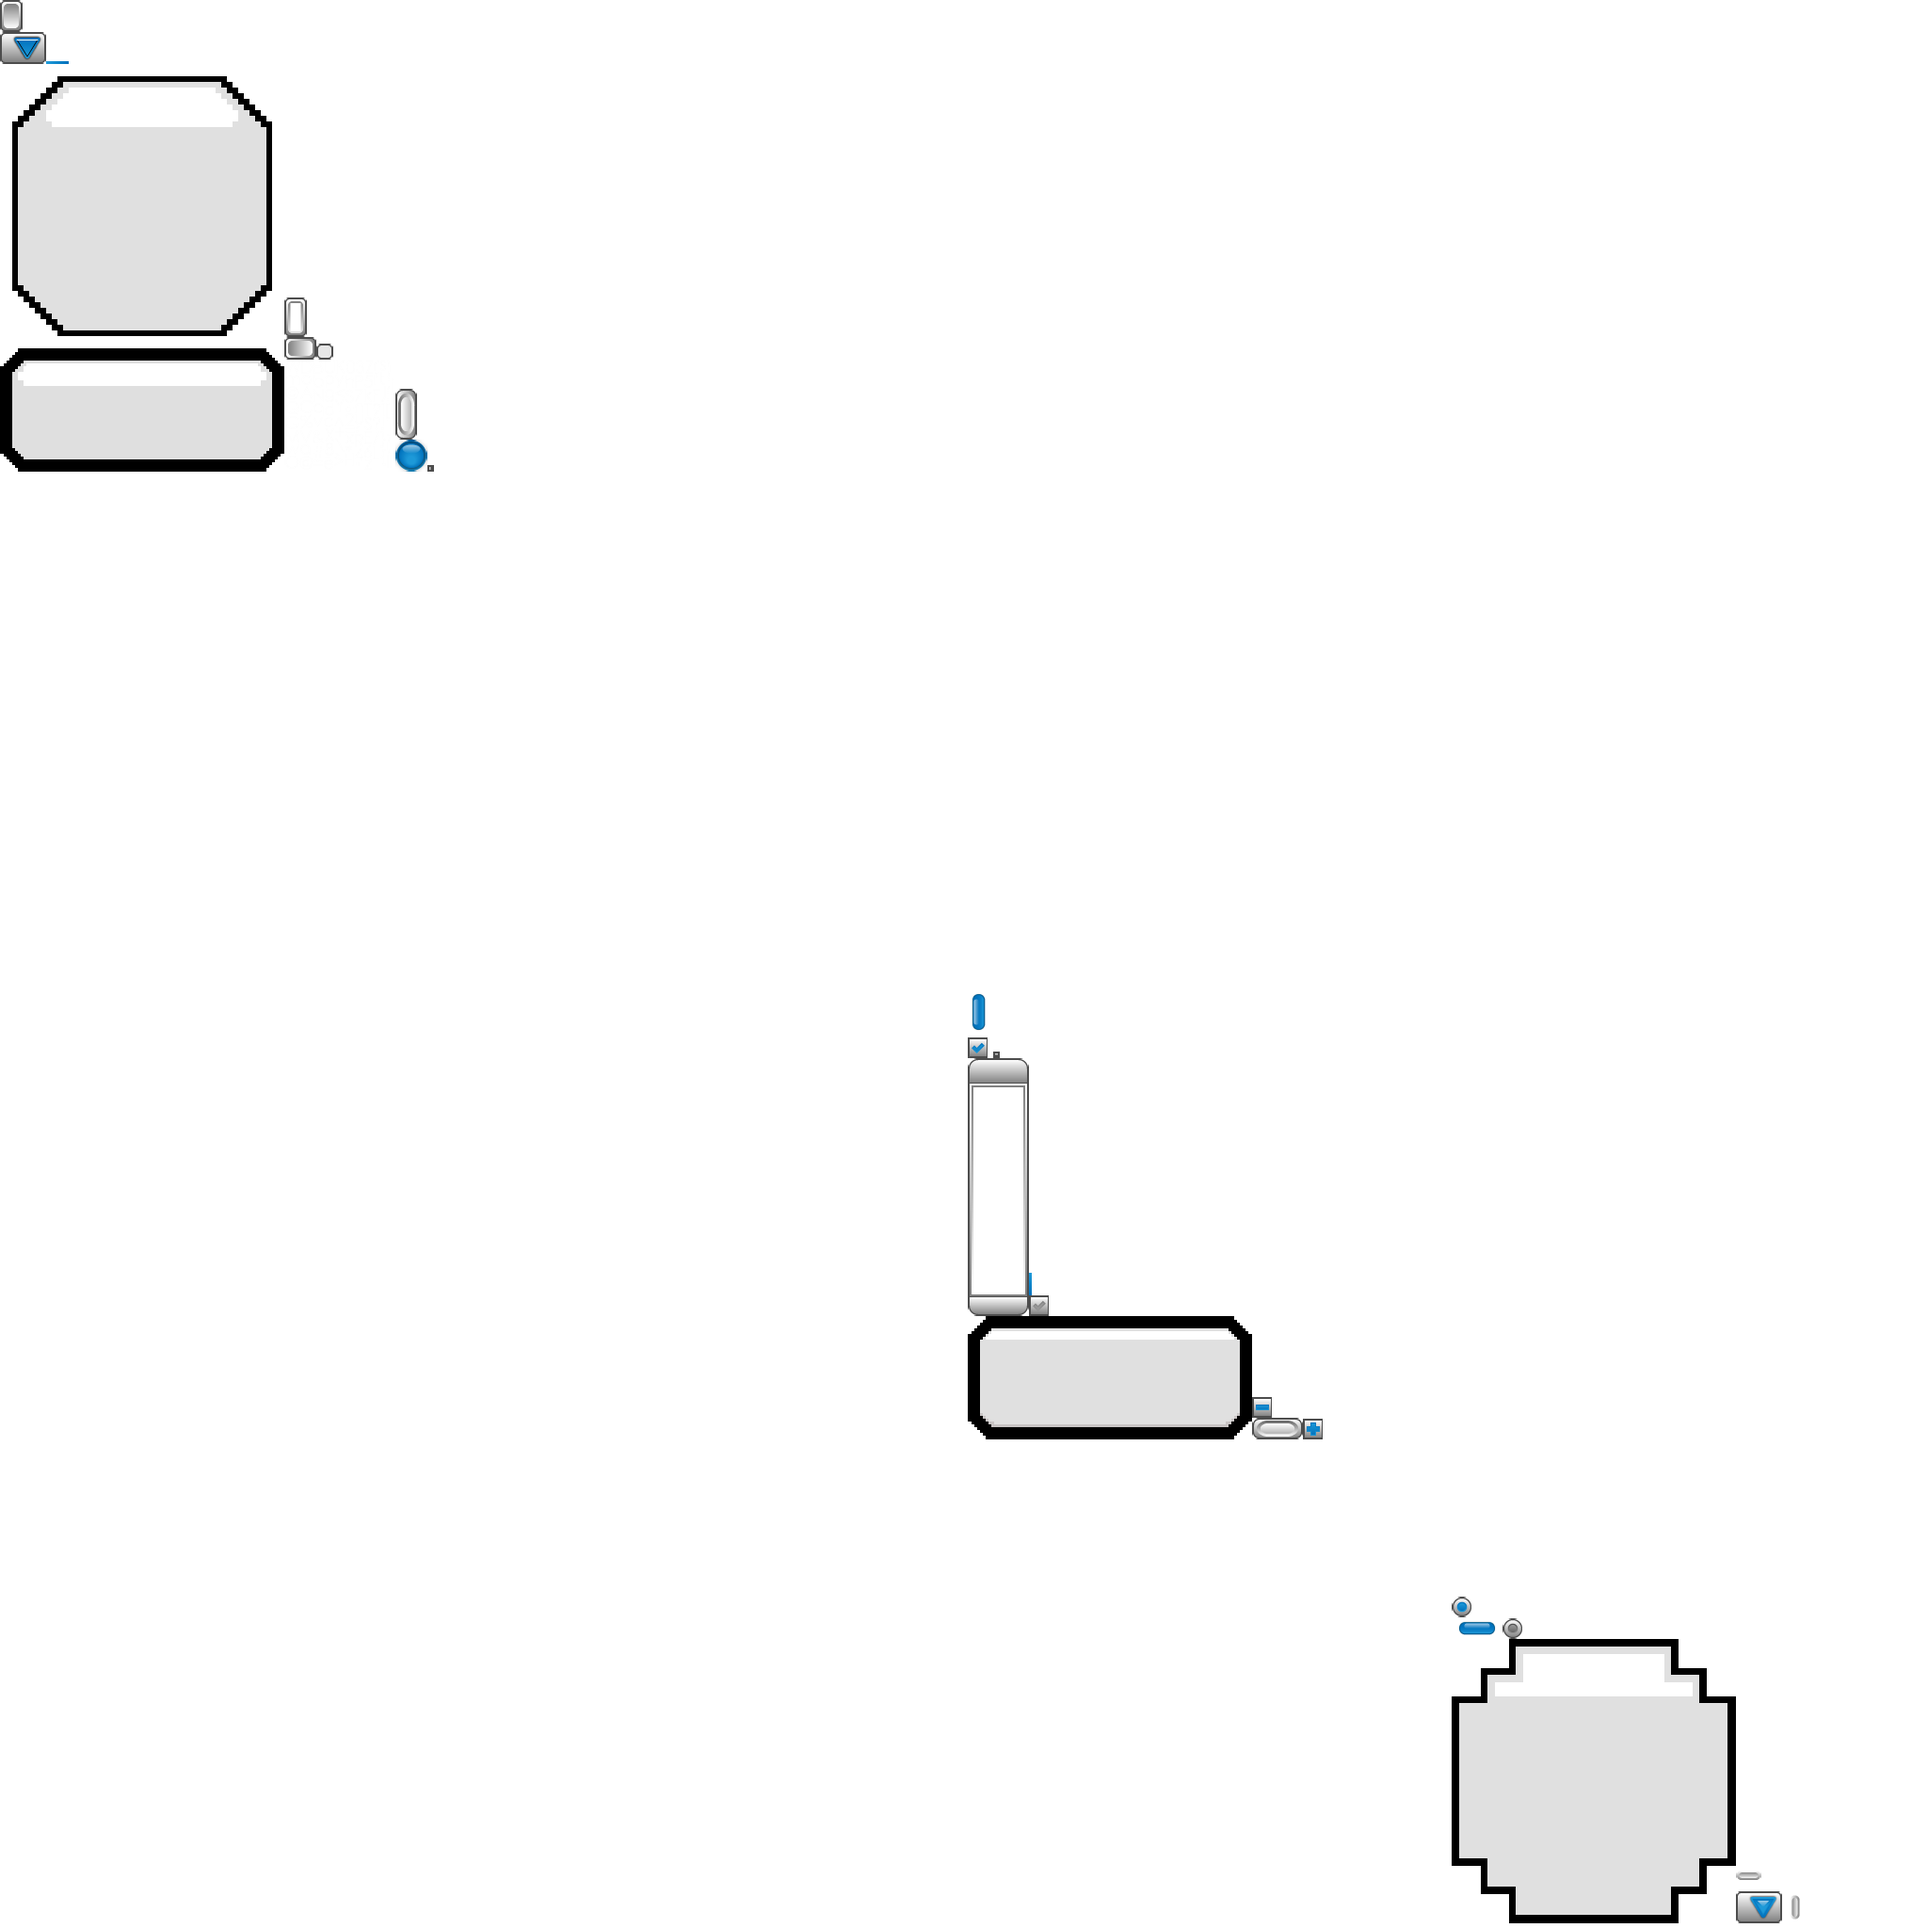
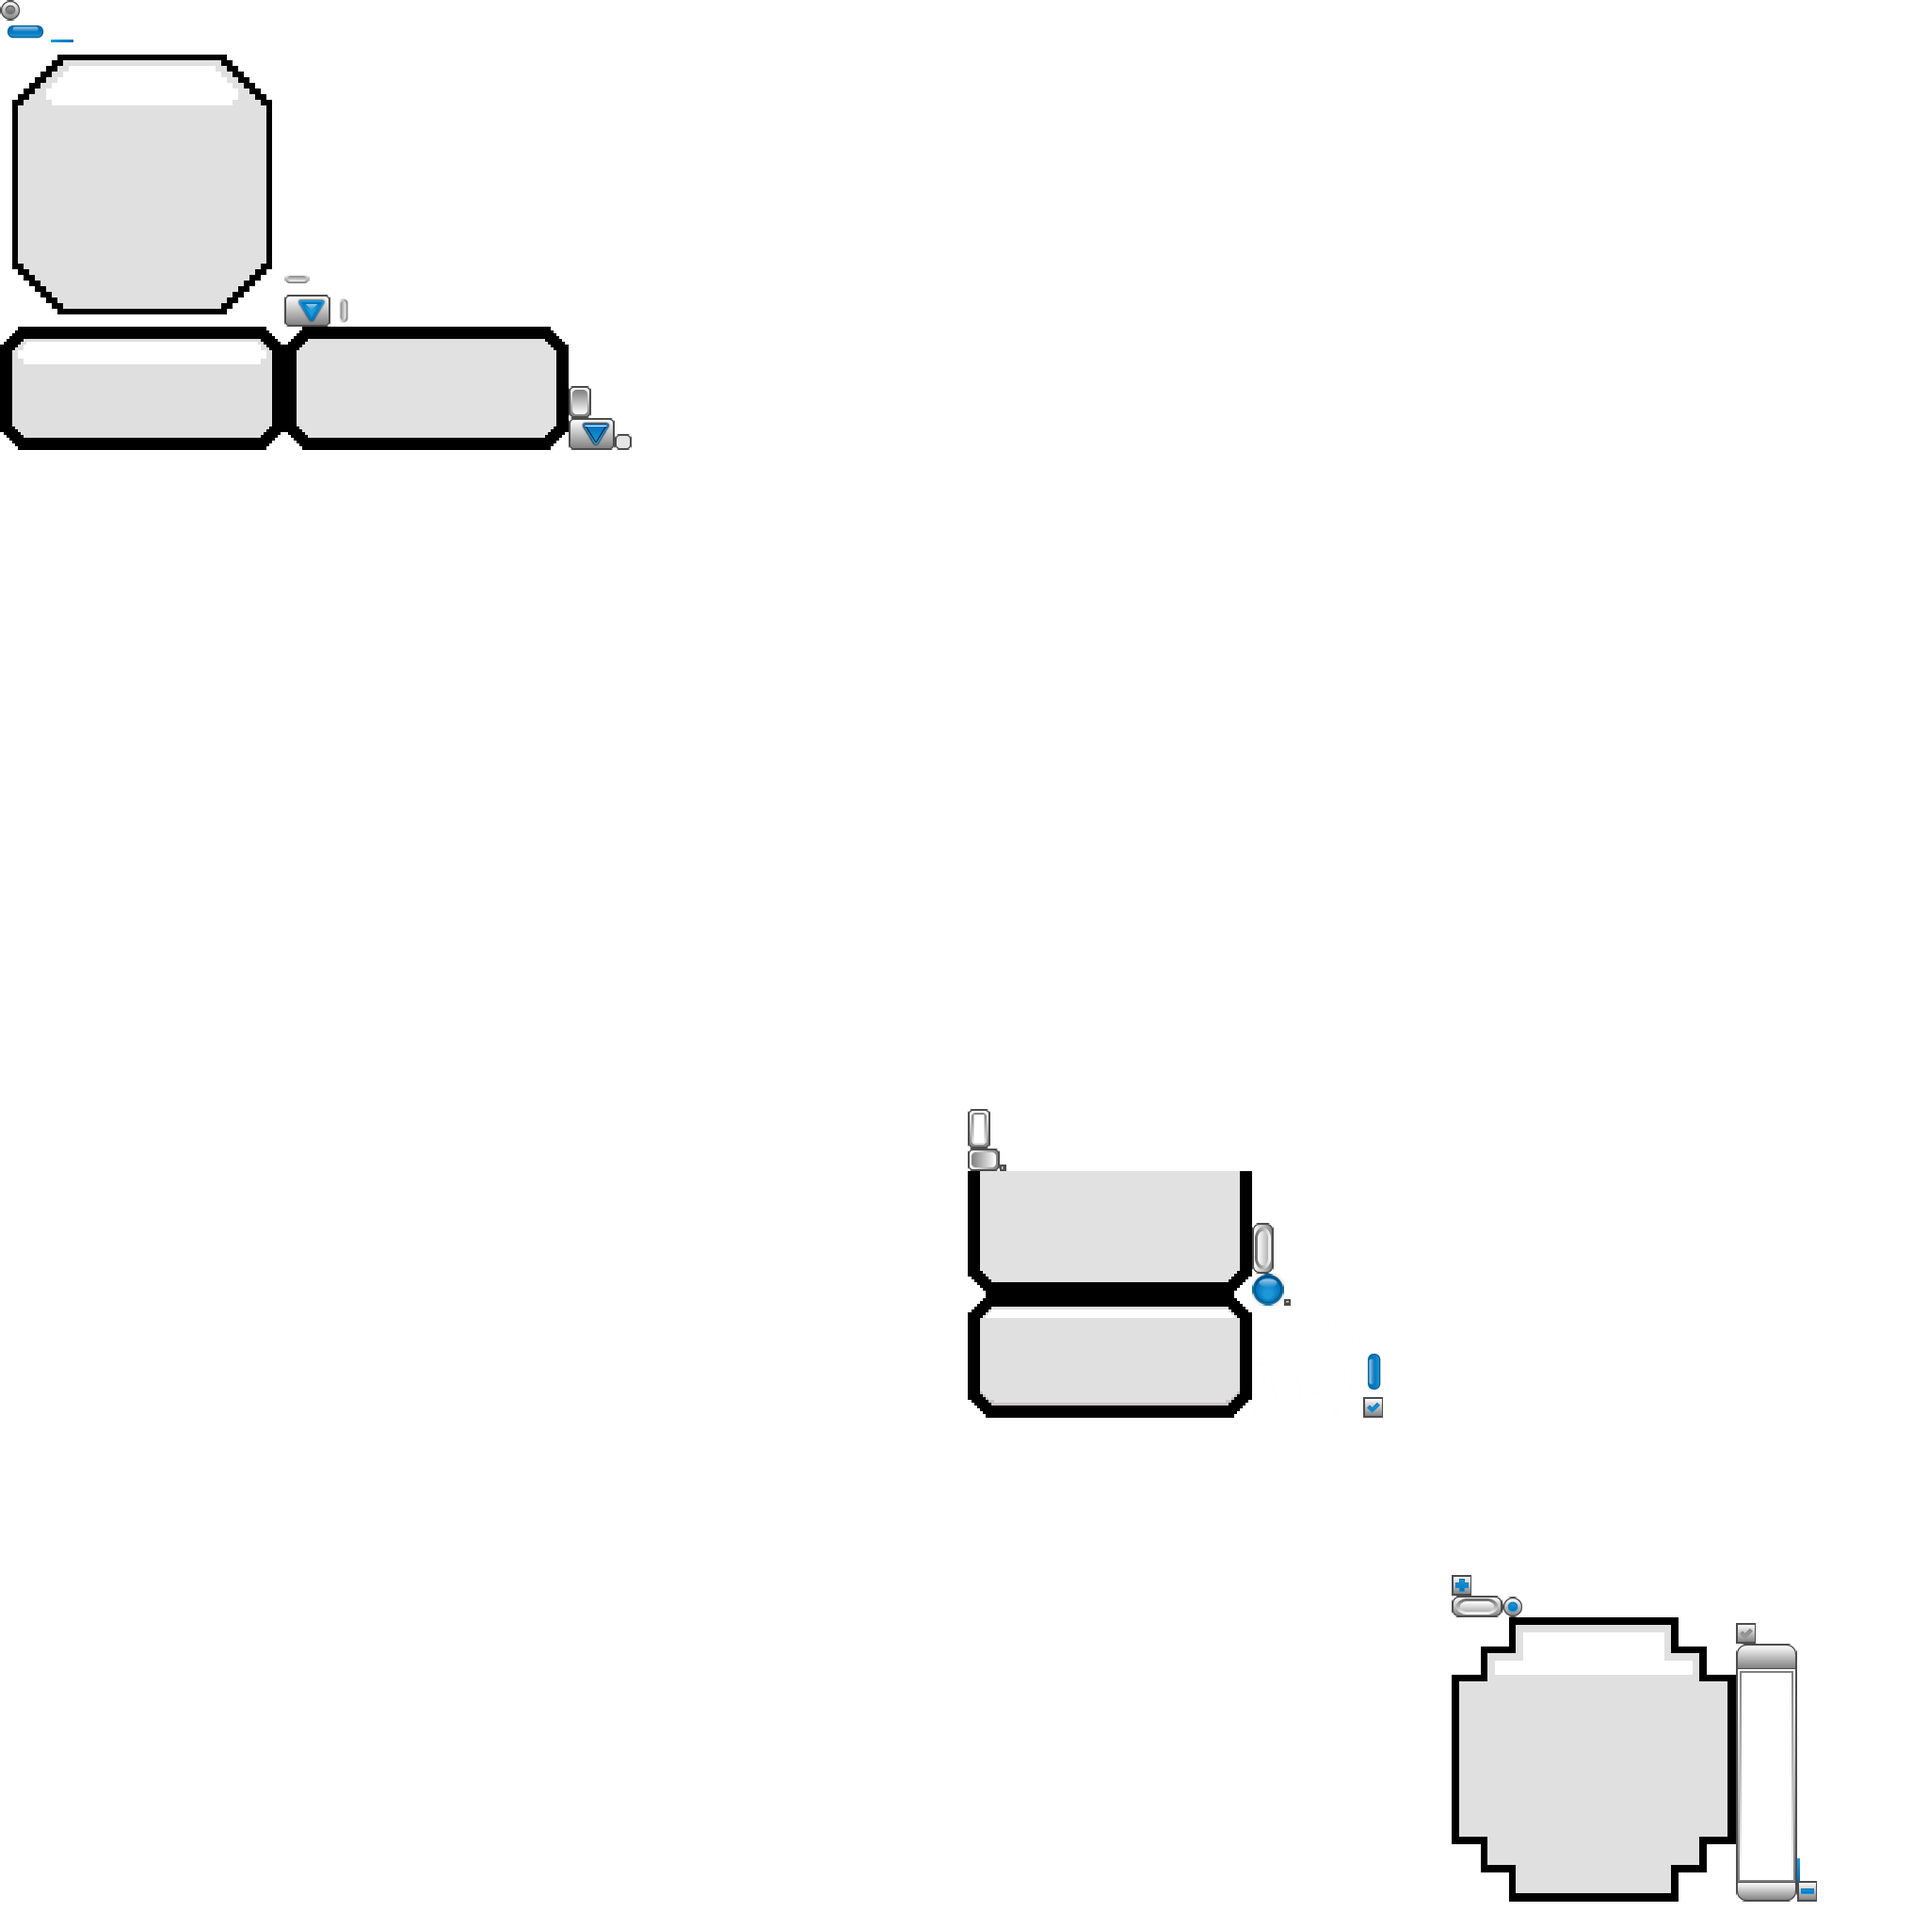
Changed the tutorial text box layout and object sentence box layout.

diff --git a/GameProject/Game/core/src/fi/tuni/tamk/GameScreen.java b/GameProject/Game/core/src/fi/tuni/tamk/GameScreen.java
@@ -215,7 +215,7 @@ public class GameScreen extends ScreenAdapter {
                 screenWidth - roundImage.getX() - roundImage.getWidth(),
                 screenHeight);
 
-        pairLabel = new Label("", mySkin, "default");
+        pairLabel = new Label("", mySkin, "objectLabel");
         pairLabel.setBounds(screenWidth * 1.1f / 4f, screenHeight * 4f / 5f,
                 screenWidth / 2.2f, screenHeight / 5f);
         pairLabel.setWrap(true);
@@ -253,7 +253,7 @@ public class GameScreen extends ScreenAdapter {
         stage.addActor(scoreLabel);
         stage.addActor(scoreChangeLabel);
         stage.addActor(objectLabel);
-        stage.addActor(pairLabelBackground);
+        //stage.addActor(pairLabelBackground);
         stage.addActor(pairLabel);
         stage.addActor(activatedLabel);
 
@@ -973,10 +973,10 @@ public class GameScreen extends ScreenAdapter {
             }
         });
 
-        tutorialLabel = new Label("", mySkin, "default");
+        tutorialLabel = new Label("", mySkin, "tutorialTest2");
         tutorialLabel.setSize(tutorialTextBackground.getWidth() * 8 / 10, tutorialTextBackground.getHeight());
         tutorialLabel.setPosition(tutorialTextBackground.getX() + tutorialTextBackground.getWidth() / 10,
-                tutorialTextBackground.getY() + buttonTutorial.getHeight());
+                tutorialTextBackground.getY());
         tutorialLabel.setWrap(true);
 
         objectiveBackground = new Image(new Texture("textures/random/tutorialTextBackground.png"));
@@ -990,7 +990,7 @@ public class GameScreen extends ScreenAdapter {
         objectiveText.setWrap(true);
         objectiveText.setVisible(false);
 
-        stage.addActor(tutorialTextBackground);
+        //stage.addActor(tutorialTextBackground);
         stage.addActor(tutorialLabel);
         stage.addActor(buttonTutorial);
         stage.addActor(objectiveBackground);

diff --git a/GameProject/Game/desktop/src/fi/tuni/tamk/desktop/DesktopLauncher.java b/GameProject/Game/desktop/src/fi/tuni/tamk/desktop/DesktopLauncher.java
@@ -7,8 +7,8 @@ import fi.tuni.tamk.Main;
 public class DesktopLauncher {
 	public static void main (String[] arg) {
 		LwjglApplicationConfiguration config = new LwjglApplicationConfiguration();
-		config.width = 1500;
-		config.height = 750;
+		config.width = 2000;
+		config.height = 1000;
 		new LwjglApplication(new Main(), config);
 	}
 }
